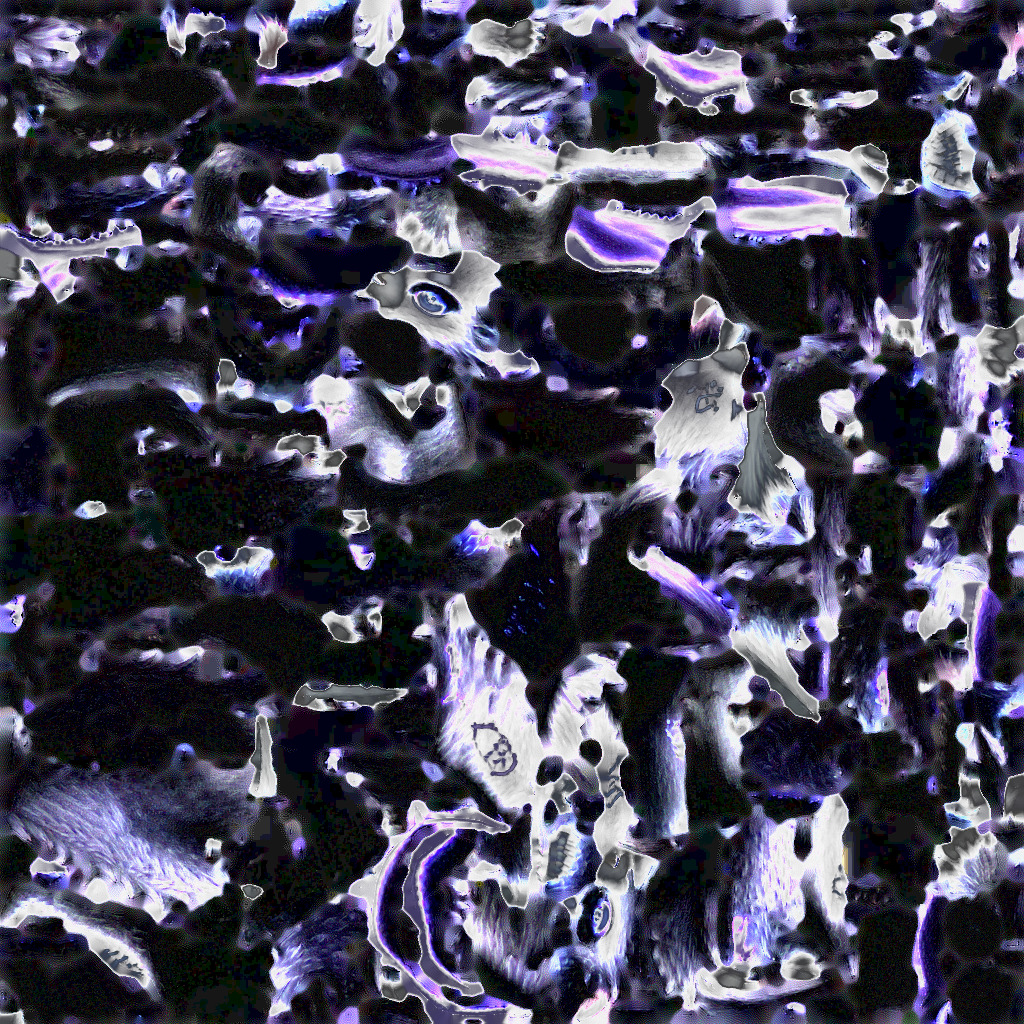
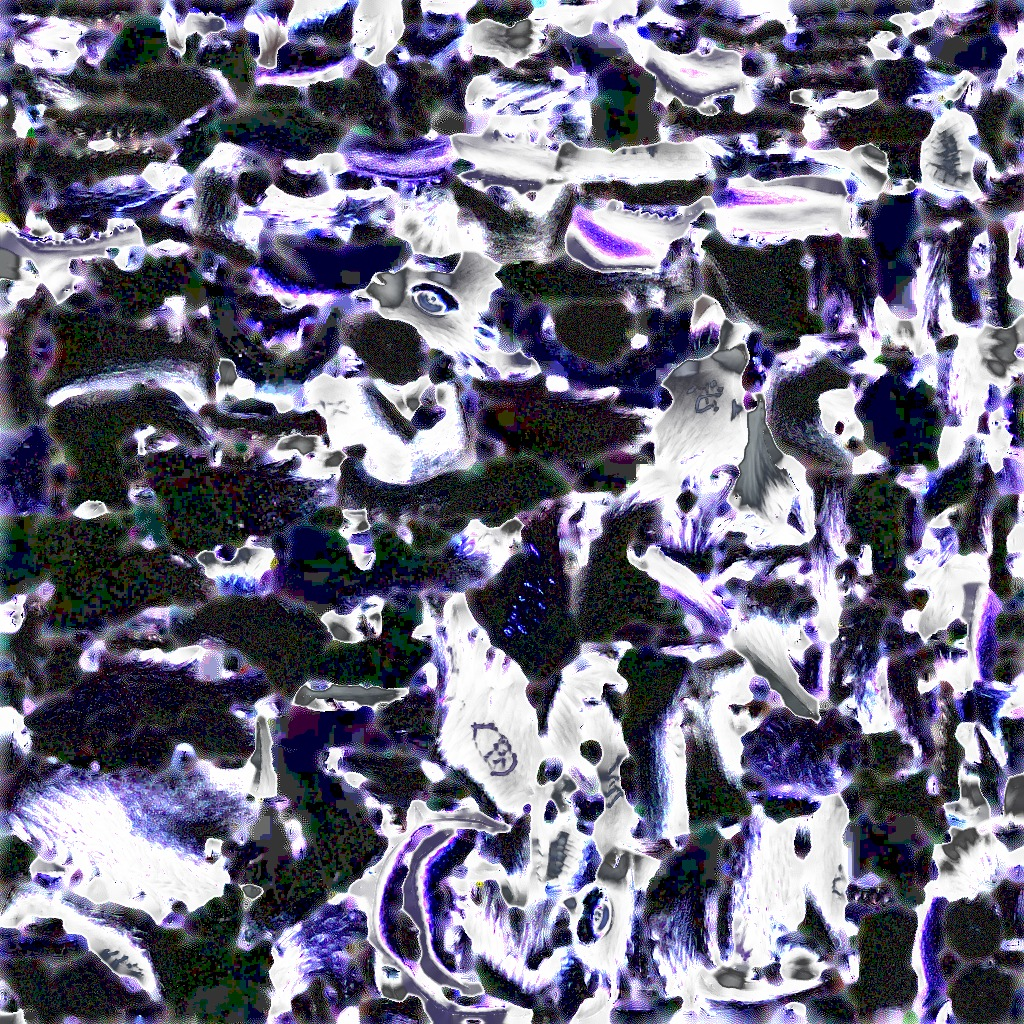
fix(nokki-preview): v10 — stronger bake, async texture load, Neutral TM (#10)
- shadowGain 52 re-bake (mean ~49, median luma ~37 for nokki)
- Wait for JPEG load; flipY false; initTexture after upload
- Neutral tone mapping + exposure ~1.22–1.32 Studio mobile

diff --git a/nokki-preview/index.html b/nokki-preview/index.html
@@ -304,6 +304,6 @@
     </footer>
   </div>
 
-  <script type="module" src="./viewer.mjs?v=9"></script>
+  <script type="module" src="./viewer.mjs?v=10"></script>
 </body>
 </html>

diff --git a/nokki-preview/scripts/bake-albedo.py b/nokki-preview/scripts/bake-albedo.py
@@ -11,10 +11,10 @@ import numpy as np
 from PIL import Image
 from pygltflib import GLTF2
 
-SHADOW_GAIN = 22.0
 LUM_LO = 0.02
 LUM_HI = 0.25
 JPEG_QUALITY = 92
+DEFAULT_SHADOW_GAIN = 52.0
 
 
 def srgb_to_linear(c: np.ndarray) -> np.ndarray:
@@ -45,7 +45,7 @@ def extract_basecolor_image(gltf_path: Path) -> Image.Image:
     return Image.open(io.BytesIO(data)).convert("RGB")
 
 
-def bake_albedo(rgb: np.ndarray, shadow_gain: float = SHADOW_GAIN) -> np.ndarray:
+def bake_albedo(rgb: np.ndarray, shadow_gain: float = DEFAULT_SHADOW_GAIN) -> np.ndarray:
     """Per-channel sRGB bake: dark coat lifted, bright muzzle/eyes preserved."""
     srgb = rgb.astype(np.float64) / 255.0
     luma = (
@@ -59,7 +59,30 @@ def bake_albedo(rgb: np.ndarray, shadow_gain: float = SHADOW_GAIN) -> np.ndarray
     return (np.clip(out, 0.0, 1.0) * 255.0 + 0.5).astype(np.uint8)
 
 
+def stats(arr: np.ndarray) -> dict[str, float]:
+    luma = 0.2126 * arr[..., 0] + 0.7152 * arr[..., 1] + 0.0722 * arr[..., 2]
+    return {
+        "mean_r": float(arr[..., 0].mean()),
+        "mean_g": float(arr[..., 1].mean()),
+        "mean_b": float(arr[..., 2].mean()),
+        "median_luma": float(np.median(luma)),
+        "p95_luma": float(np.percentile(luma, 95)),
+    }
+
+
 def main():
+    import argparse
+
+    parser = argparse.ArgumentParser(description="Bake display albedo for nokki-preview PBR")
+    parser.add_argument(
+        "--shadow-gain",
+        type=float,
+        default=DEFAULT_SHADOW_GAIN,
+        help="Dark-coat lift multiplier (e.g. 48–56)",
+    )
+    args = parser.parse_args()
+    gain = args.shadow_gain
+
     root = Path(__file__).resolve().parents[1]
     models = root / "models"
     for name in ("nokki", "nokkane"):
@@ -69,13 +92,15 @@ def main():
             continue
         src = extract_basecolor_image(glb)
         arr = np.array(src)
-        baked = bake_albedo(arr)
+        baked = bake_albedo(arr, shadow_gain=gain)
         out_path = models / f"{name}-albedo.jpg"
-        Image.fromarray(baked, "RGB").save(
-            out_path, "JPEG", quality=JPEG_QUALITY, optimize=True, subsampling=0
+        Image.fromarray(baked, "RGB").save(out_path, "JPEG", quality=JPEG_QUALITY)
+        st = stats(baked)
+        print(
+            f"{name}: gain={gain} -> {out_path.name} "
+            f"mean RGB [{st['mean_r']:.1f}, {st['mean_g']:.1f}, {st['mean_b']:.1f}] "
+            f"median_luma={st['median_luma']:.1f} p95_luma={st['p95_luma']:.1f}"
         )
-        mean = baked.mean(axis=(0, 1))
-        print(f"{name}: {src.size[0]}x{src.size[1]} -> {out_path.name} mean RGB {mean}")
 
 
 if __name__ == "__main__":
